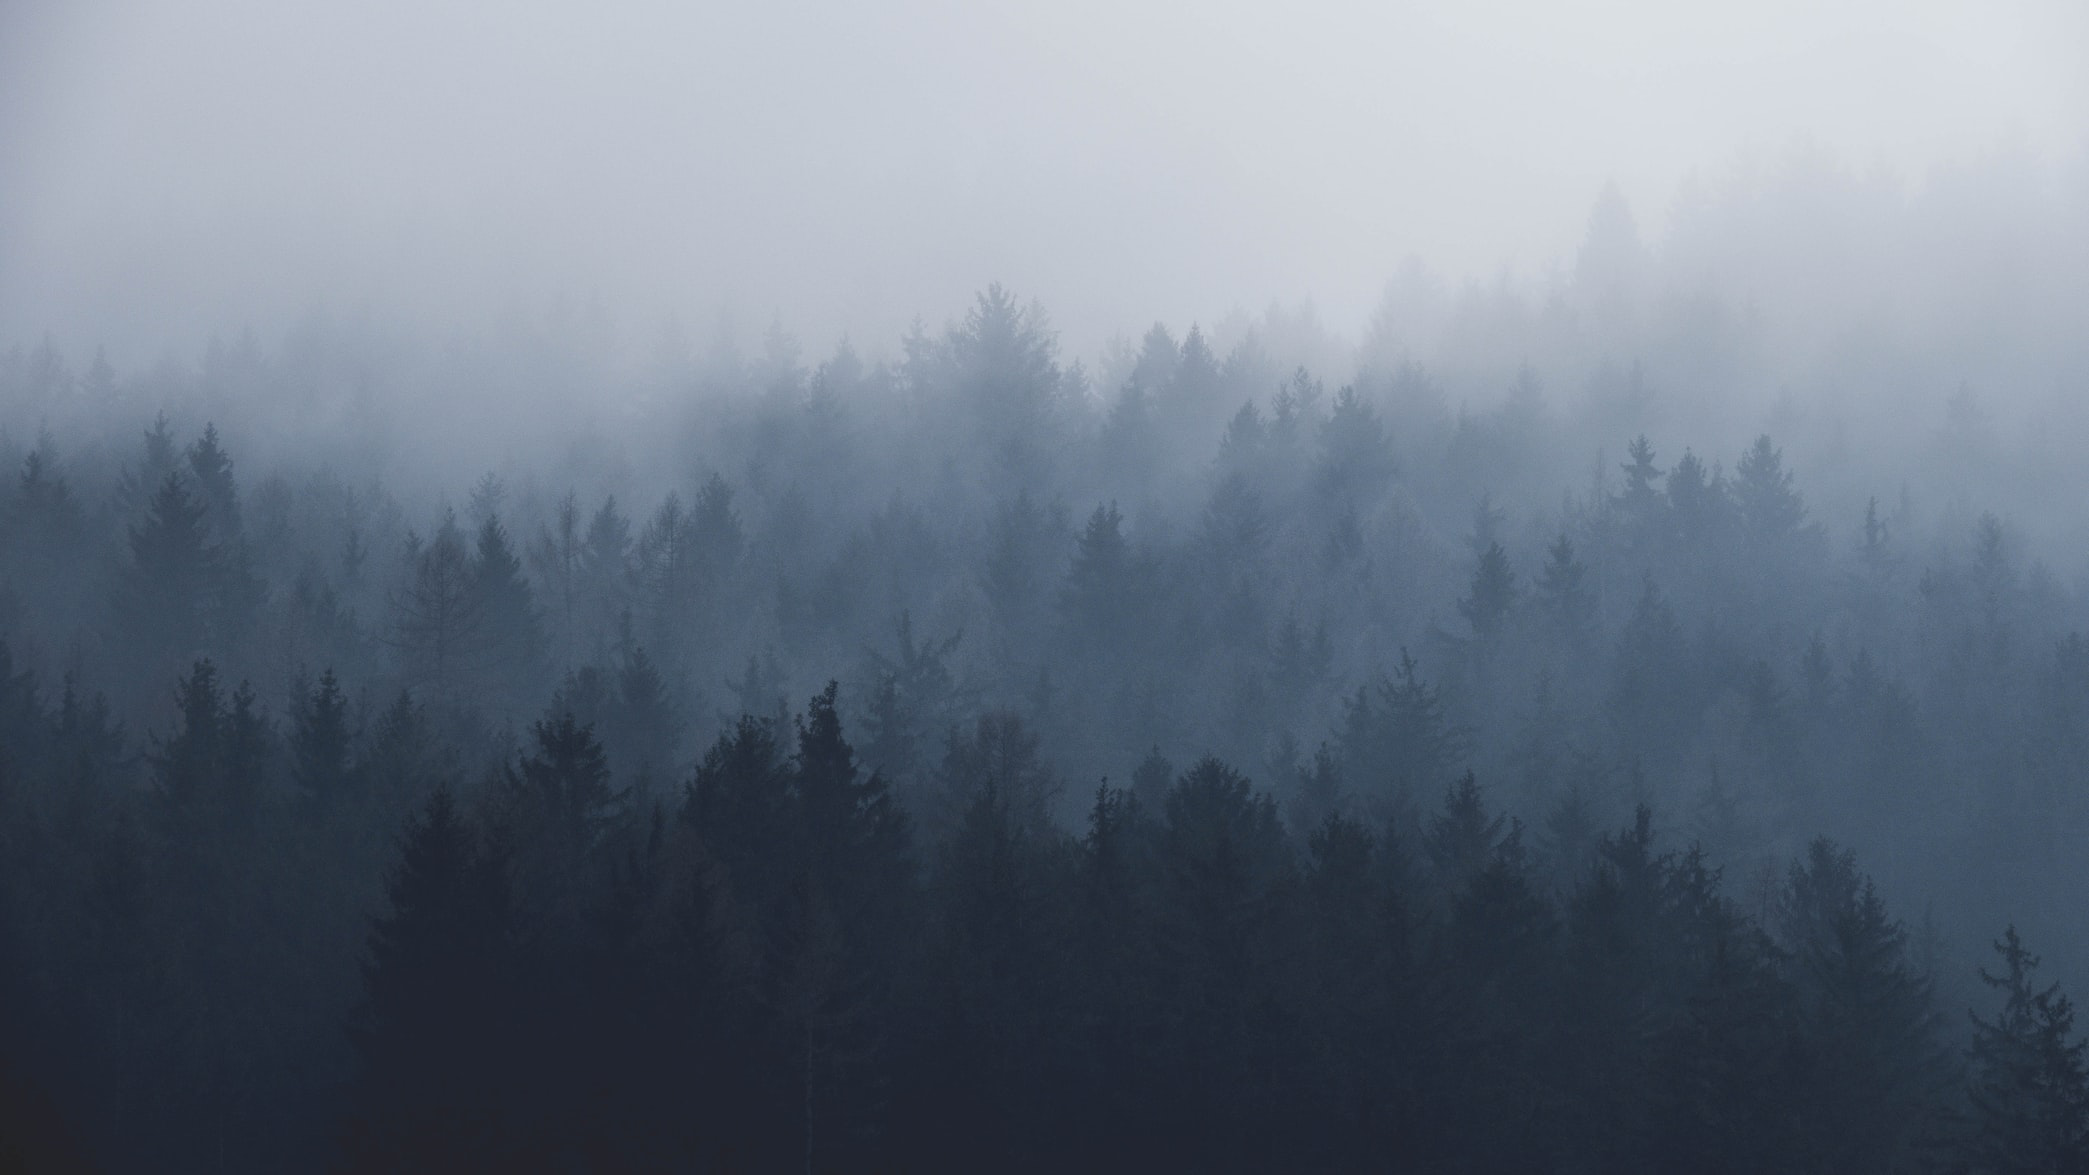
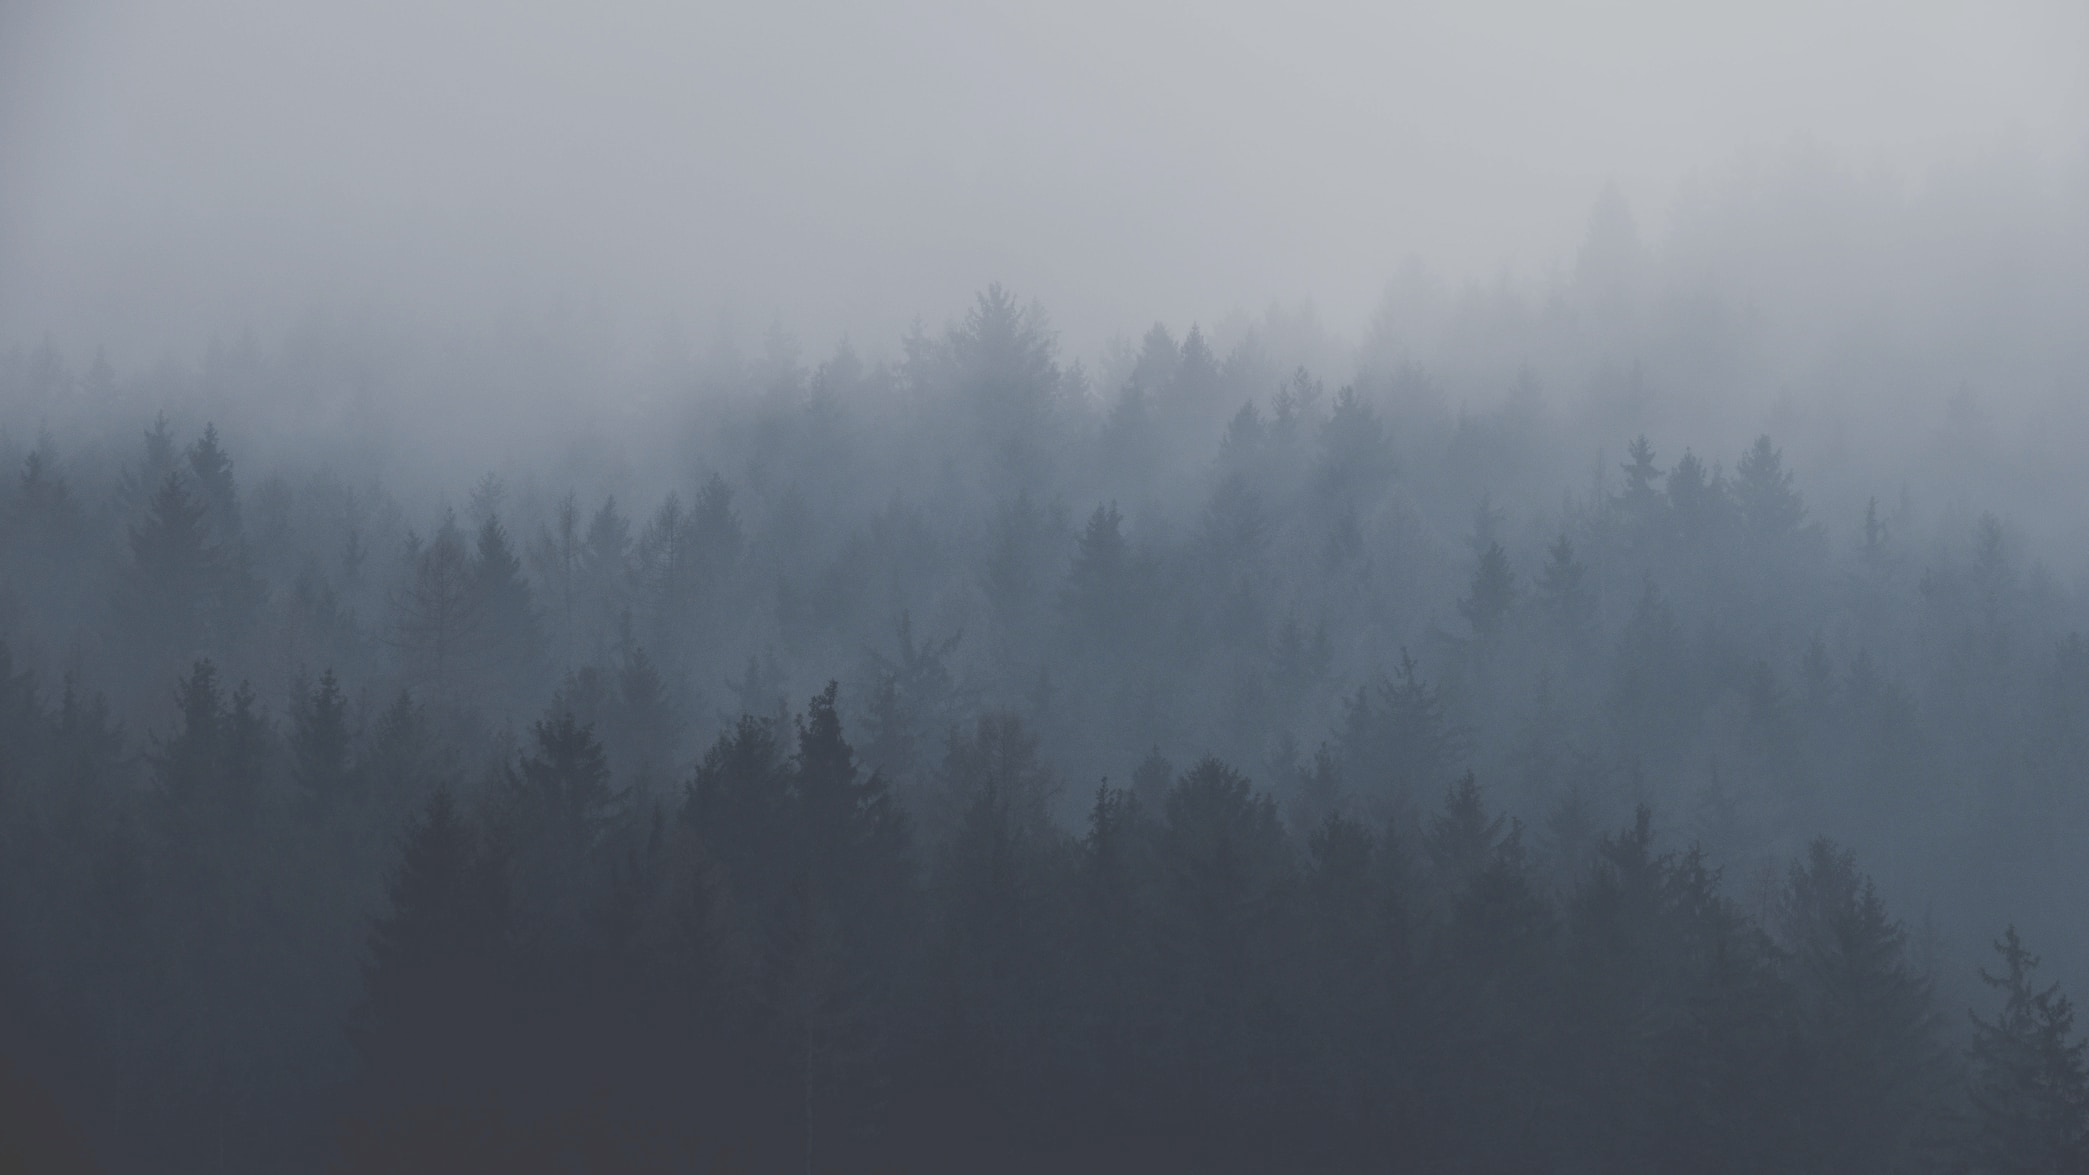
Mist theme slightly darker

diff --git a/app/dark_theme.py b/app/dark_theme.py
@@ -25,7 +25,7 @@ TRANSSECONDARY = QColor(35, 35, 35, 232)
 TRANSTERTIARY = QColor(42, 130, 218, 232)
 TRANSHIGHLIGHT = QColor(84, 85, 81, 232)
 
-BLUEPRIMARY = QColor(91, 105, 117, 232)
+BLUEPRIMARY = QColor(81, 95, 107, 232)
 BLUESECONDARY = QColor(69, 66, 89, 232)
 BLUETERTIARY = QColor(128, 143, 137, 232)
 BLUEHIGHLIGHT = QColor(248, 248, 240, 232)
